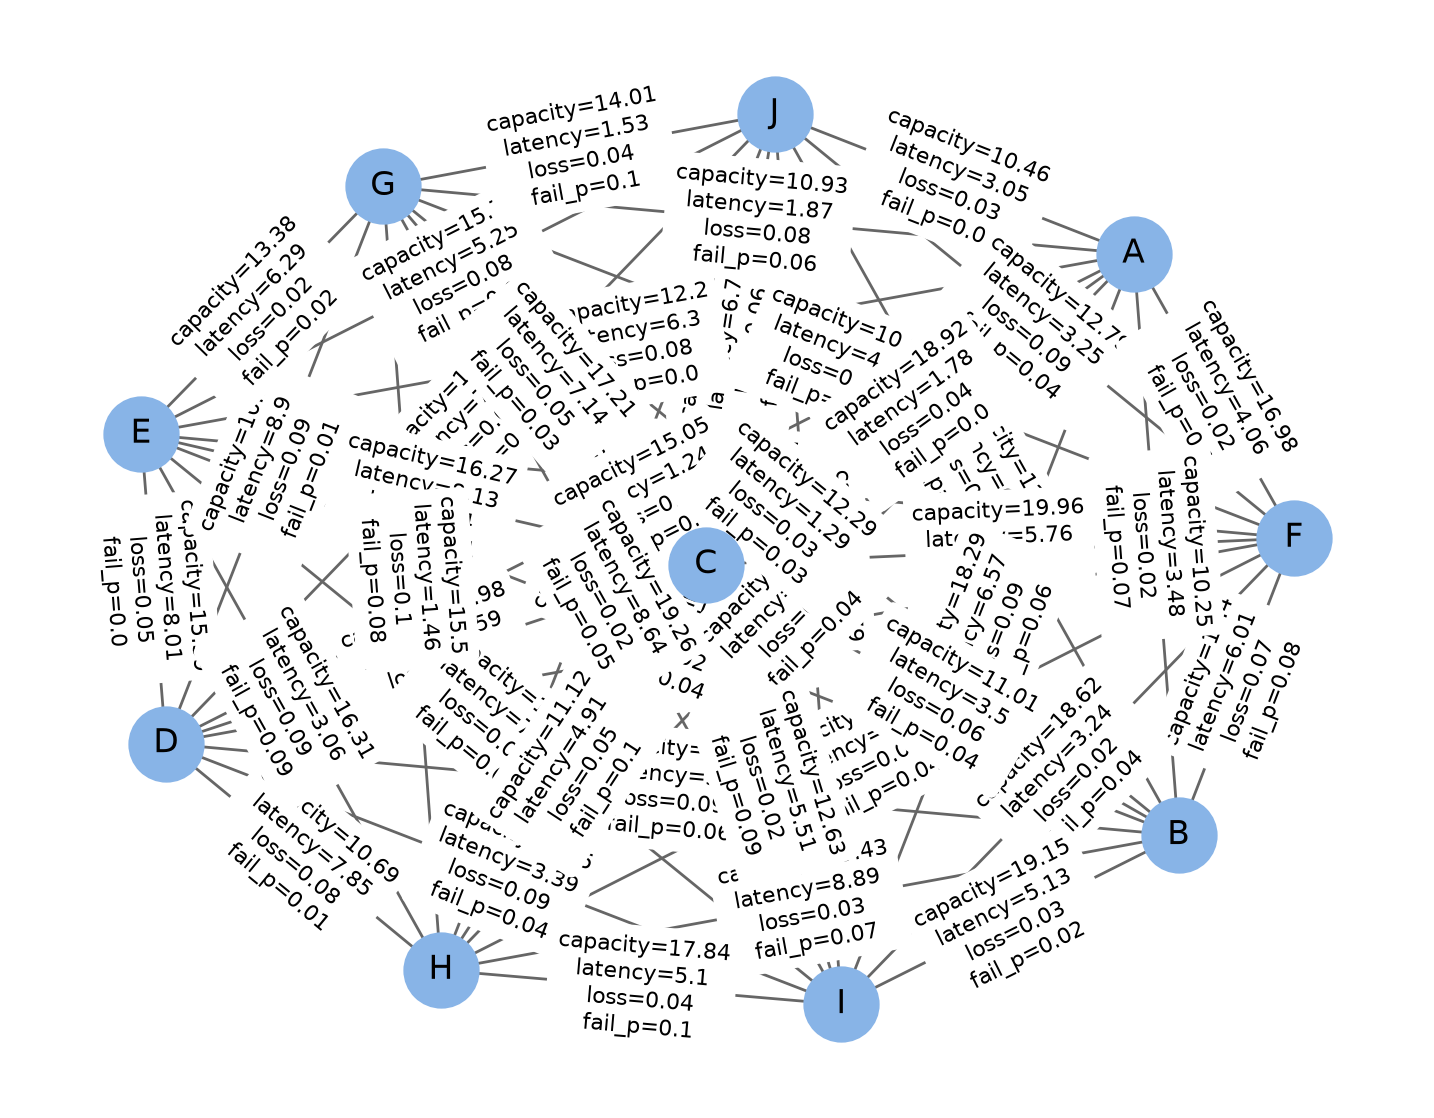
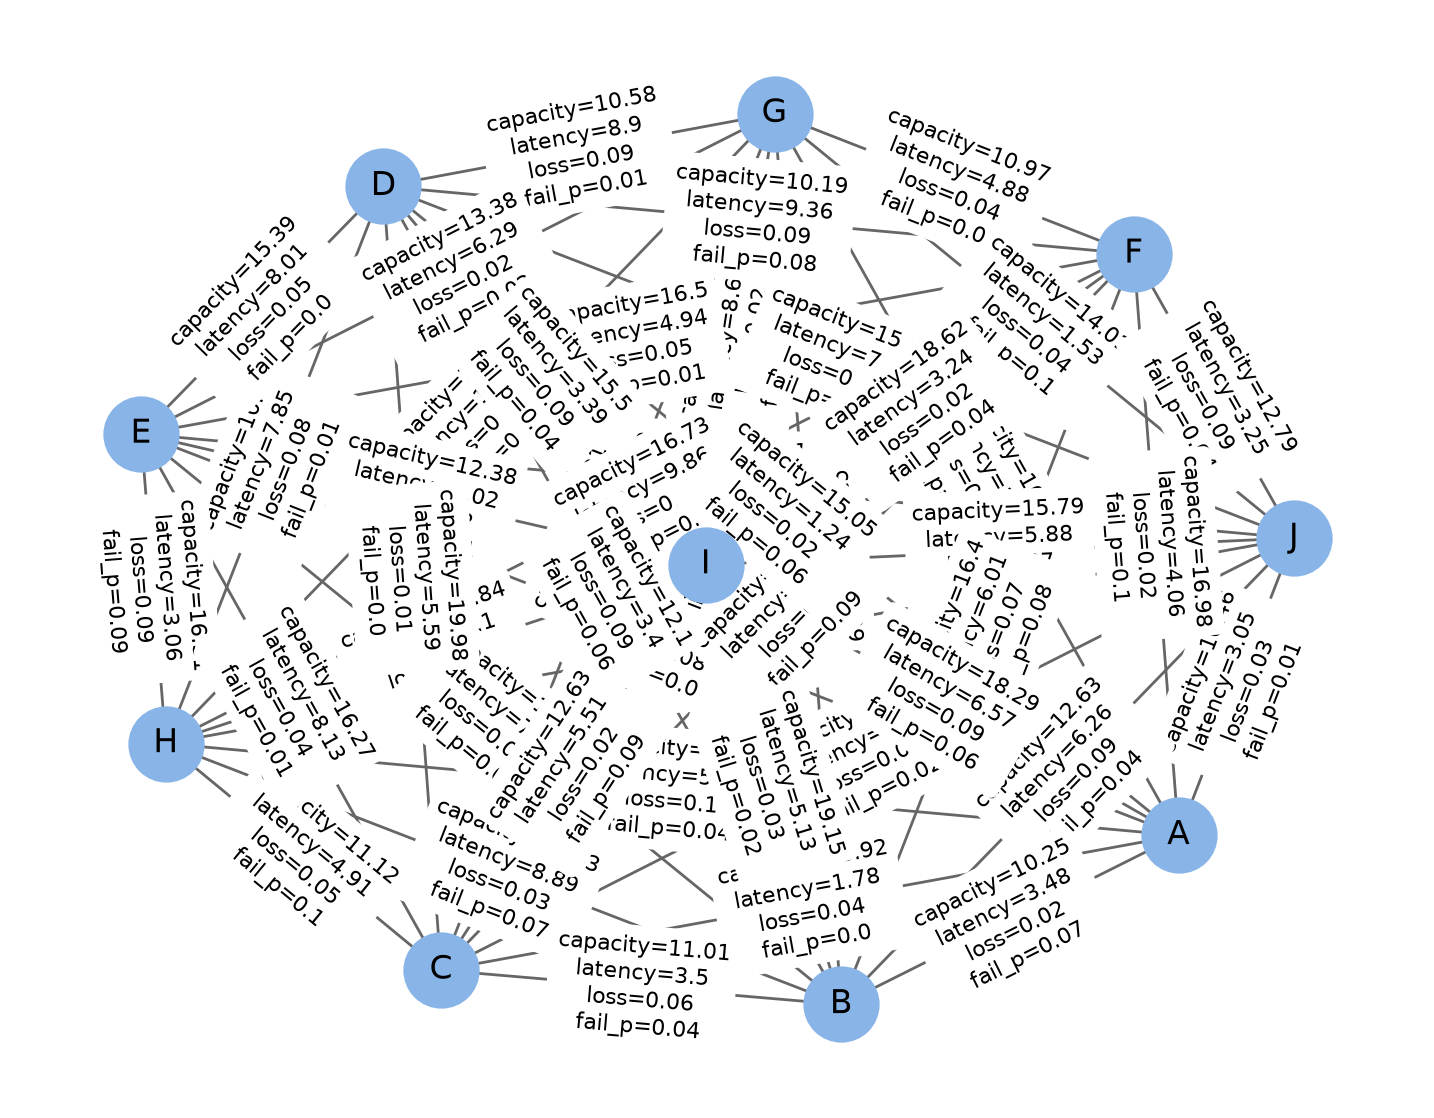
Added heuristic fallback for flows missing from agentic decision

diff --git a/simulation.py b/simulation.py
@@ -827,17 +827,28 @@ class Simulator:
 
         # 3. Return best available routes
         if self._last_agentic_paths is not None:
-            # Debugging: flows that started after this cached decision was
-            # submitted get no path at all until the next decision lands.
-            missing = [
+            # Flows that started after this cached decision was submitted are
+            # missing from it entirely. Patching them in with a heuristic path
+            # instead of leaving them with nothing until the next decision lands.
+            missing = {
                 flow for flow, demand in demands.items()
                 if demand > 0 and flow not in self._last_agentic_paths
-            ]
-            if missing and self.verbosity >= 1:
+            }
+            if not missing:
+                return self._last_agentic_paths
+
+            if self.verbosity >= 1:
                 print(f"[t={self.t}] ⚠ {len(missing)} active flow(s) missing from the cached "
-                      f"agentic decision (submitted at t={self._agentic_submit_t}), no path "
-                      f"until the next one lands: {missing}")
-            return self._last_agentic_paths
+                      f"agentic decision (submitted at t={self._agentic_submit_t}); "
+                      f"using heuristic fallback for them until the next one lands.")
+
+            flow_snapshot = self.route_flows_heuristic(demands)
+            fallback_paths = {
+                (fid.src, fid.dst): entry.path
+                for fid, entry in flow_snapshot.flows.items()
+                if entry.path and (fid.src, fid.dst) in missing
+            }
+            return {**self._last_agentic_paths, **fallback_paths}
 
         # No agentic result yet — heuristic warm-start
         if self.verbosity >= 1:
